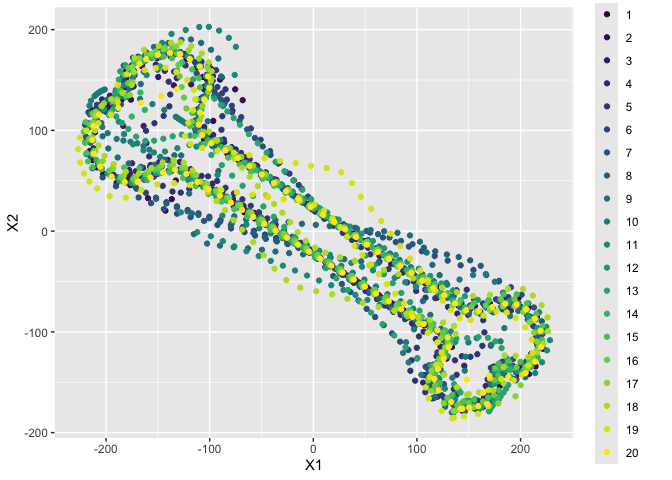
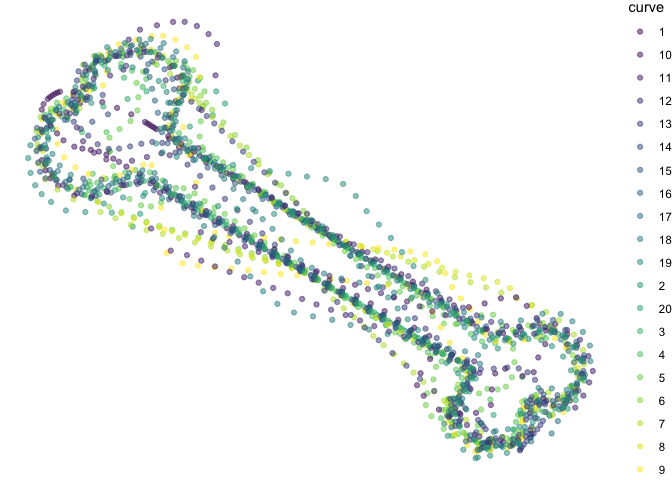
add mean curve

diff --git a/README.md b/README.md
@@ -43,21 +43,28 @@ available functions.
 
 We first visualize this curve dataset:
 
-For that we first turn `beta` into `beta_df` to ease the visualization:
+For that we first turn on class of curve present in the `beta` matrix
+into `beta_df` to ease the visualization:
 
 ``` r
 library(fdasrvf)
 library(ggplot2)
-beta_df <- purrr::map_dfr(1:20, ~dplyr::bind_cols(data.frame(beta[,,1,.x] |> t()), fig = .x) ) 
-ggplot(beta_df, aes(x = X1, y = X2, color = factor(fig))) + geom_point() + scale_color_viridis_d()
+class = 1
+beta_df <- purrr::map_dfr(1:20, ~dplyr::bind_cols(data.frame(beta[,,class,.x] |> t()), curve = as.character(.x)) ) 
+ggplot(beta_df, aes(x = X1, y = X2, color = curve)) +
+  geom_point(alpha = 0.5) +
+  scale_color_viridis_d() + theme_void()
 ```
 
 <img src="man/figures/README-2d_curve_plot-1.png" width="100%" /> We can
-see that each entry is a functionally a close 2D curve. We will now
-proceed with curve alignment :
+see that each `curve` is a functionally closed 2D curve. And we
+distinguish different patterns of miss-alignment, like X values
+shrinking, small displacement, and many others.
+
+We will now proceed with curve alignment for the curves of this class 1:
 
 ``` r
-aligned_lst = curve_srvf_align(beta[,,1,1:20],maxit=5)
+aligned_lst = curve_srvf_align(beta[,,class,],maxit=5)
 #> 
 #> Initializing...
 #> Iteration: 1
@@ -67,11 +74,24 @@ aligned_lst = curve_srvf_align(beta[,,1,1:20],maxit=5)
 Let’s plot the result
 
 ``` r
-aligned_df <- purrr::map_dfr(1:20, ~dplyr::bind_cols(data.frame(aligned_lst$betan[,,.x] |> t()), fig = .x) ) 
-ggplot(aligned_df, aes(x = X1, y = X2, color = factor(fig))) + geom_point() + scale_color_viridis_d()
+aligned_df <- purrr::map_dfr(1:20, ~dplyr::bind_cols(data.frame(aligned_lst$betan[,,.x] |> t()), curve = as.character(.x)) ) 
+ggplot(aligned_df, aes(x = X1, y = X2, color = curve)) +
+  geom_point(alpha = 0.5) +
+  scale_color_viridis_d() + theme_void()
 ```
 
-<img src="man/figures/README-2d_aligned_plot-1.png" width="100%" />
+<img src="man/figures/README-2d_aligned_plot-1.png" width="100%" /> The
+result contains also the mean curve and the curves transformed into the
+SRVF space :
+
+``` r
+mean_curve <- data.frame(aligned_lst$betamean |> t()) 
+ggplot(mean_curve, aes(x = X1, y = X2)) + 
+  geom_point(size = 1, color = "darkred") +
+  scale_color_viridis_d() + theme_void()
+```
+
+<img src="man/figures/README-2d-meean-and-srvf-1.png" width="100%" />
 
 ## References
 
